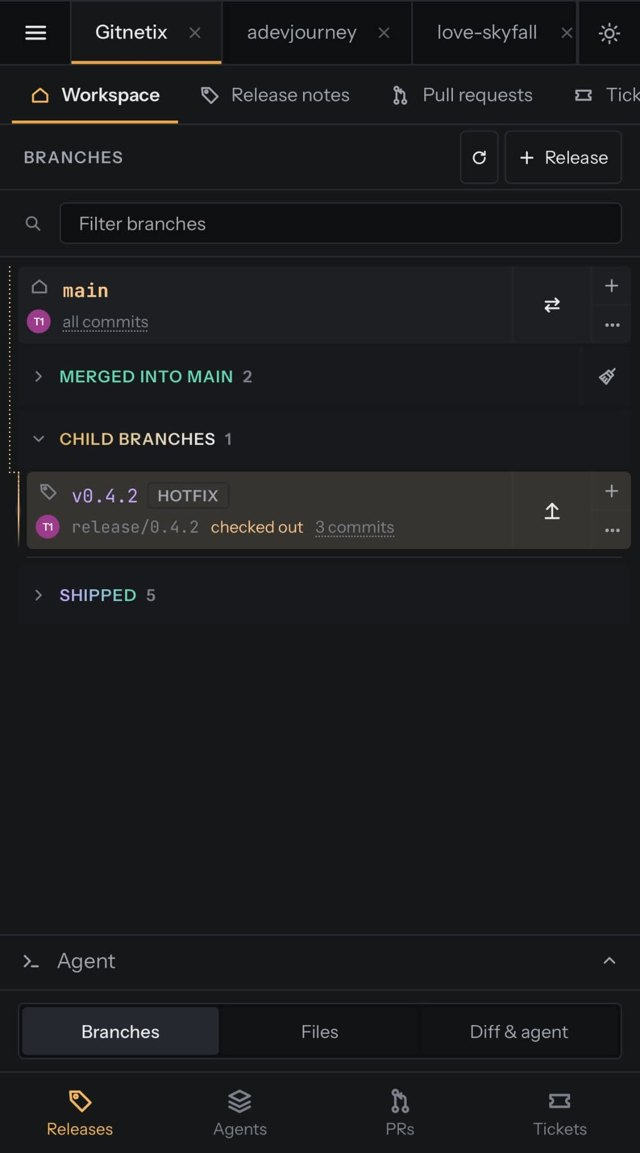
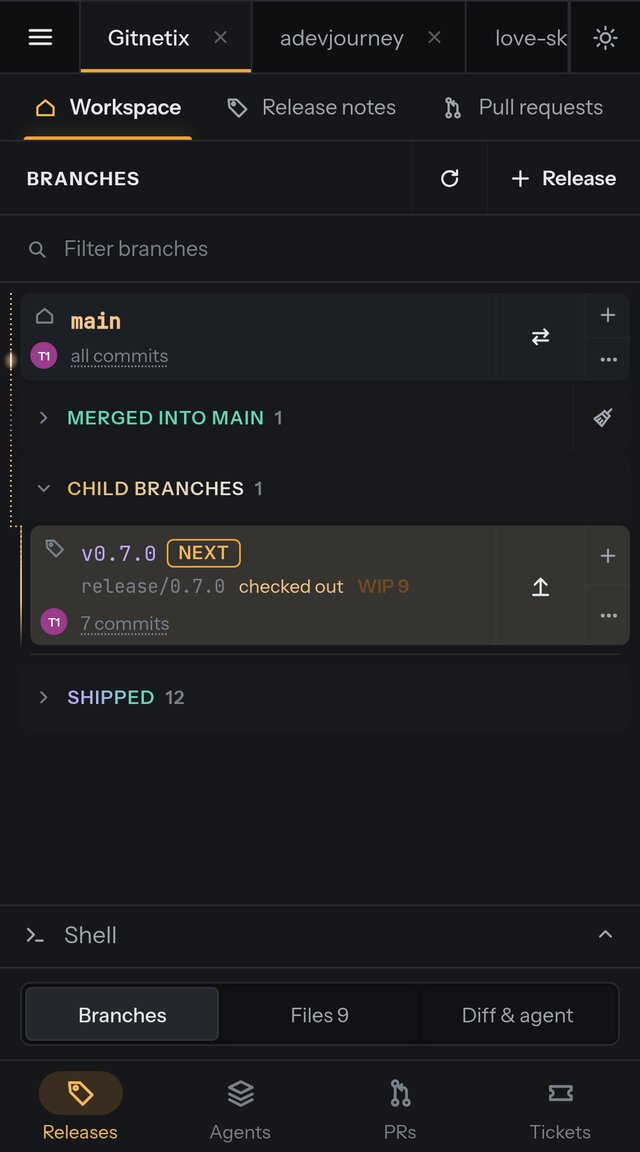
feat(website): restyle links and add release page navigation
- Move muted and faint link colours into shared CSS classes so global hover still applies.
- Add hover and press motion to buttons and cards, with a hit-area strip that stops flicker.
- Add a "See all release notes" link to the release page.
- Shorten the footer labels and update the phone screenshot and its alt text to v0.7.0.

diff --git a/website/src/components/Home.tsx b/website/src/components/Home.tsx
@@ -12,7 +12,7 @@ export default function Home({ version, demo }: { version: string; demo?: ReactN
     {/* HERO */}
     <section aria-labelledby="hero-h" style={{ position: 'relative', padding: '88px 24px 40px', background: 'radial-gradient(900px 480px at 50% 0%, var(--accent-soft), transparent 70%)' }}>
     <div style={{ maxWidth: '1080px', margin: '0 auto', display: 'flex', flexDirection: 'column', alignItems: 'center', textAlign: 'center', gap: '24px' }}>
-    <a href={u(`releases/${releases[0].version}/`)} style={{ display: 'inline-flex', alignItems: 'center', gap: '10px', fontSize: '14px', padding: '6px 14px 6px 6px', border: '1px solid var(--line)', borderRadius: '999px', background: 'var(--panel)', color: 'var(--muted)' }}>
+    <a className="btn-s muted" href={u(`releases/${releases[0].version}/`)} style={{ display: 'inline-flex', alignItems: 'center', gap: '10px', fontSize: '14px', padding: '6px 14px 6px 6px', border: '1px solid var(--line)', borderRadius: '999px', background: 'var(--panel)' }}>
     <span style={{ background: 'var(--accent-soft)', color: 'var(--accent-fg)', fontWeight: '600', padding: '2px 10px', borderRadius: '999px' }} className="mono">v{releases[0].version}</span>
     <span>{releases[0].title}</span>
     <span aria-hidden="true">→</span>
@@ -26,7 +26,7 @@ export default function Home({ version, demo }: { version: string; demo?: ReactN
     </a>
     <a className="btn-s" href={REPO} style={{ display: 'flex', alignItems: 'center', gap: '10px', fontWeight: '500', fontSize: '17px', padding: '15px 22px', borderRadius: '12px', border: '1px solid var(--line)', background: 'var(--panel)' }}>View on GitHub</a>
     </div>
-    <p style={{ margin: '0', fontSize: '14px', color: 'var(--faint)' }}><span data-dl-note>v{version} · Free for macOS, Windows and Linux</span> · <a href={u("download/")} style={{ color: 'var(--muted)', textDecoration: 'underline', textUnderlineOffset: '3px' }}>Other platforms</a></p>
+    <p style={{ margin: '0', fontSize: '14px', color: 'var(--faint)' }}><span data-dl-note>v{version} · Free for macOS, Windows and Linux</span> · <a className="muted" href={u("download/")} style={{ textDecoration: 'underline', textUnderlineOffset: '3px' }}>Other platforms</a></p>
     </div>
 
     {/* hero app window */}
@@ -224,7 +224,7 @@ export default function Home({ version, demo }: { version: string; demo?: ReactN
     <div style={{ flex: '1 1 260px', display: 'flex', justifyContent: 'center' }}>
     <figure style={{ margin: '0', display: 'flex', flexDirection: 'column', gap: '14px', alignItems: 'center' }}>
     <div style={{ position: 'relative', width: '264px', maxWidth: '100%', background: '#0b0c0e', border: '2px solid var(--rail)', borderRadius: '18px', padding: '10px', boxSizing: 'border-box', boxShadow: '0 30px 80px -30px rgba(0,0,0,.8), 0 0 50px -20px rgba(240,164,58,.45)' }}>
-    <img src={u("phone.jpg")} alt="Gitnetix on a phone browser: the branch tree with main, a merged-into-main group, the checked-out v0.4.2 hotfix release, a Shipped group, and Releases, Agents, PRs and Tickets tabs" width="640" height="1153" loading="lazy" style={{ display: 'block', width: '100%', height: 'auto', borderRadius: '9px' }} />
+    <img src={u("phone.jpg")} alt="Gitnetix on a phone browser: the branch tree with main, a merged-into-main group, the checked-out v0.7.0 next release, a Shipped group, and Releases, Agents, PRs and Tickets tabs" width="640" height="1152" loading="lazy" style={{ display: 'block', width: '100%', height: 'auto', borderRadius: '9px' }} />
     </div>
     <span style={{ display: 'inline-flex', alignItems: 'center', gap: '8px', fontSize: '13px', color: 'var(--add)', background: 'var(--panel)', border: '1px solid var(--line)', padding: '4px 12px', borderRadius: '999px' }}><span aria-hidden="true" style={{ width: '7px', height: '7px', borderRadius: '50%', background: 'var(--add)' }}></span>Real screenshot · paired by QR code</span>
     </figure>

diff --git a/website/src/components/Download.tsx b/website/src/components/Download.tsx
@@ -17,7 +17,7 @@ export default function Download({ latest, notes }: Props) {
     <p style={{ margin: '0', color: 'var(--muted)', fontSize: '18px', display: 'flex', flexWrap: 'wrap', gap: '6px 14px', justifyContent: 'center', alignItems: 'center' }}>
     <span className="mono" style={{ color: 'var(--release)', background: 'var(--chip)', padding: '2px 10px', borderRadius: '999px', fontSize: '14px' }}>v{latest.version}</span>
     {notes && <span>Released <time dateTime={notes.date}>{longDate(notes.date)}</time></span>}
-    {notes && <a href={u(`releases/${notes.version}/`)} style={{ color: 'var(--accent-fg)', fontWeight: '600' }}>What's new →</a>}
+    {notes && <a className="dl-new" href={u(`releases/${notes.version}/`)} style={{ fontWeight: '600' }}>What's new →</a>}
     </p>
     </section>
 
@@ -37,7 +37,7 @@ export default function Download({ latest, notes }: Props) {
     </li>
     ))}
     </ul>
-    <p style={{ margin: '20px 0 0', textAlign: 'center', fontSize: '14px', color: 'var(--faint)' }}>Installed apps check for new releases on launch and update themselves. <a href={`${REPO}/releases`} style={{ color: 'var(--muted)', textDecoration: 'underline', textUnderlineOffset: '3px' }}>All releases on GitHub</a></p>
+    <p style={{ margin: '20px 0 0', textAlign: 'center', fontSize: '14px', color: 'var(--faint)' }}>Installed apps check for new releases on launch and update themselves. <a className="dl-all" href={`${REPO}/releases`} style={{ textDecoration: 'underline', textUnderlineOffset: '3px' }}>All releases on GitHub</a></p>
 
     <section aria-labelledby="mac-h" style={{ marginTop: '72px', display: 'flex', flexWrap: 'wrap', gap: '28px 56px', background: 'var(--panel)', border: '1px solid var(--line)', borderRadius: '18px', padding: 'clamp(24px, 4vw, 44px)' }}>
     <div style={{ flex: '1 1 360px', display: 'flex', flexDirection: 'column', gap: '12px' }}>
@@ -63,7 +63,7 @@ export default function Download({ latest, notes }: Props) {
     <h2 id="more-h" style={{ margin: '0 0 24px', fontSize: '32px', letterSpacing: '-0.02em' }}>Other ways to run it</h2>
     <div style={{ display: 'grid', gridTemplateColumns: 'repeat(auto-fit, minmax(min(340px, 100%), 1fr))', gap: '18px' }}>
     <article style={{ background: 'var(--panel)', border: '1px solid rgba(240,164,58,.45)', borderRadius: '16px', padding: '26px', display: 'flex', gap: '20px', alignItems: 'flex-start' }}>
-    <img src={u("phone.jpg")} alt="Gitnetix branch tree in a phone browser" width="640" height="1153" loading="lazy" style={{ width: '96px', height: 'auto', borderRadius: '14px', border: '2px solid var(--rail)', flex: 'none' }} />
+    <img src={u("phone.jpg")} alt="Gitnetix branch tree in a phone browser" width="640" height="1152" loading="lazy" style={{ width: '96px', height: 'auto', borderRadius: '14px', border: '2px solid var(--rail)', flex: 'none' }} />
     <div style={{ display: 'flex', flexDirection: 'column', gap: '10px' }}>
     <h3 style={{ margin: '0', fontSize: '20px' }}>On your phone</h3>
     <p style={{ margin: '0', color: 'var(--muted)', fontSize: '15px' }}>Nothing to install. In Settings › Companion &amp; MCP, allow devices on your network, then scan the QR code. Gitnetix opens in your phone's browser.</p>

diff --git a/website/src/components/ReleasePage.tsx b/website/src/components/ReleasePage.tsx
@@ -8,16 +8,17 @@ export default function ReleasePage({ i }: { i: number }) {
   const older = releases[i + 1];
   return (
     <div style={{ maxWidth: '1040px', margin: '0 auto', padding: '0 24px 120px' }}>
-    <nav aria-label="Breadcrumb" style={{ padding: '28px 0 40px', fontSize: '14px', color: 'var(--faint)' }}><a href={u()} style={{ color: 'var(--faint)' }}>Gitnetix</a> <span aria-hidden="true">/</span> <a href={u('releases/')} style={{ color: 'var(--faint)' }}>Releases</a> <span aria-hidden="true">/</span> <span>v{r.version}</span></nav>
+    <nav aria-label="Breadcrumb" style={{ padding: '28px 0 40px', fontSize: '14px', color: 'var(--faint)' }}><a className="faint" href={u()}>Gitnetix</a> <span aria-hidden="true">/</span> <a className="faint" href={u('releases/')}>Releases</a> <span aria-hidden="true">/</span> <span>v{r.version}</span></nav>
     <p style={{ margin: '0 0 16px', display: 'flex', flexWrap: 'wrap', gap: '6px 14px', alignItems: 'center', color: 'var(--muted)' }}>
     <span className="mono" style={{ color: 'var(--release)', background: 'var(--chip)', padding: '2px 10px', borderRadius: '999px', fontSize: '14px' }}>v{r.version}</span>
     <span>Released <time dateTime={r.date}>{longDate(r.date)}</time></span>
     {i === 0 && <span style={{ fontSize: '12px', fontWeight: '600', color: 'var(--accent-ink)', background: 'var(--accent)', padding: '2px 10px', borderRadius: '999px' }}>Latest</span>}
     </p>
     <ReleaseCard r={r} latest={i === 0} heading="h1" />
+    <a className="btn-s" href={u('releases/')} style={{ display: 'inline-flex', alignItems: 'center', marginTop: '28px', fontWeight: '500', padding: '13px 20px', borderRadius: '12px', border: '1px solid var(--line)', background: 'var(--panel)' }}>See all release notes</a>
     <nav aria-label="Other releases" style={{ marginTop: '32px', display: 'flex', flexWrap: 'wrap', gap: '16px', justifyContent: 'space-between' }}>
-    {older ? <a href={u(`releases/${older.version}/`)} style={{ color: 'var(--muted)', minHeight: '44px', display: 'flex', alignItems: 'center' }}>← v{older.version}: {older.title}</a> : <span></span>}
-    {newer && <a href={u(`releases/${newer.version}/`)} style={{ color: 'var(--muted)', minHeight: '44px', display: 'flex', alignItems: 'center' }}>v{newer.version}: {newer.title} →</a>}
+    {older ? <a className="muted" href={u(`releases/${older.version}/`)} style={{ minHeight: '44px', display: 'flex', alignItems: 'center' }}>← v{older.version}: {older.title}</a> : <span></span>}
+    {newer && <a className="muted" href={u(`releases/${newer.version}/`)} style={{ minHeight: '44px', display: 'flex', alignItems: 'center' }}>v{newer.version}: {newer.title} →</a>}
     </nav>
     </div>
   );

diff --git a/website/src/components/Releases.tsx b/website/src/components/Releases.tsx
@@ -7,7 +7,7 @@ export default function Releases({ version }: { version: string }) {
   const days = Math.round((Date.parse(releases[0].date) - Date.parse(releases[releases.length - 1].date)) / 864e5) + 1;
   return (
     <div style={{ maxWidth: '1240px', margin: '0 auto', padding: '0 24px 120px' }}>
-    <nav aria-label="Breadcrumb" style={{ paddingTop: '28px', fontSize: '14px', color: 'var(--faint)' }}><a href={u()} style={{ color: 'var(--faint)' }}>Gitnetix</a> <span aria-hidden="true">/</span> <span>Releases</span></nav>
+    <nav aria-label="Breadcrumb" style={{ paddingTop: '28px', fontSize: '14px', color: 'var(--faint)' }}><a className="faint" href={u()}>Gitnetix</a> <span aria-hidden="true">/</span> <span>Releases</span></nav>
 
     <section aria-labelledby="rel-h" style={{ padding: '56px 0 64px', display: 'flex', flexWrap: 'wrap', gap: '32px 64px', alignItems: 'flex-end', justifyContent: 'space-between' }}>
     <div style={{ flex: '1 1 560px', maxWidth: '760px' }}>
@@ -22,8 +22,8 @@ export default function Releases({ version }: { version: string }) {
     <div style={{ background: 'var(--panel)', border: '1px solid var(--line)', borderRadius: '12px', padding: '14px' }}><dt style={{ fontSize: '12px', color: 'var(--faint)' }}>Latest</dt><dd className="mono" style={{ margin: '6px 0 0', fontSize: '18px', fontWeight: '500', color: 'var(--accent-fg)' }}>{latest.version}</dd></div>
     </dl>
     <div style={{ display: 'flex', flexWrap: 'wrap', gap: '8px 18px', fontSize: '14px' }}>
-    <a href={u('releases.xml')} style={{ color: 'var(--muted)', display: 'flex', alignItems: 'center', gap: '6px', minHeight: '32px' }}><svg aria-hidden="true" width="14" height="14" viewBox="0 0 24 24" fill="none" stroke="currentColor" strokeWidth="2.2" strokeLinecap="round"><path d="M4 11a9 9 0 0 1 9 9M4 4a16 16 0 0 1 16 16"></path><circle cx="5" cy="19" r="1.5"></circle></svg>Release feed</a>
-    <a href={`${REPO}/blob/main/CHANGELOG.md`} style={{ color: 'var(--muted)', display: 'flex', alignItems: 'center', minHeight: '32px' }}>CHANGELOG.md on GitHub</a>
+    <a className="muted" href={u('releases.xml')} style={{ display: 'flex', alignItems: 'center', gap: '6px', minHeight: '32px' }}><svg aria-hidden="true" width="14" height="14" viewBox="0 0 24 24" fill="none" stroke="currentColor" strokeWidth="2.2" strokeLinecap="round"><path d="M4 11a9 9 0 0 1 9 9M4 4a16 16 0 0 1 16 16"></path><circle cx="5" cy="19" r="1.5"></circle></svg>Release feed</a>
+    <a className="muted" href={`${REPO}/blob/main/CHANGELOG.md`} style={{ display: 'flex', alignItems: 'center', minHeight: '32px' }}>CHANGELOG.md on GitHub</a>
     </div>
     </div>
     </section>

diff --git a/website/src/components/Footer.tsx b/website/src/components/Footer.tsx
@@ -4,14 +4,14 @@ export default function Footer() {
   return (
     <footer style={{ borderTop: '1px solid var(--line)' }}>
     <div style={{ maxWidth: '1240px', margin: '0 auto', padding: '36px 24px', display: 'flex', flexWrap: 'wrap', gap: '20px 40px', alignItems: 'center', fontSize: '14px', color: 'var(--muted)' }}>
-    <div style={{ display: 'flex', alignItems: 'center', gap: '10px', flex: '1 1 260px' }}><img src={u('favicon.png')} alt="" width="24" height="24" loading="lazy" style={{ width: '24px', height: '24px', borderRadius: '6px' }} /><span>Gitnetix · a release-centric Git client</span></div>
-    <nav aria-label="Footer" style={{ display: 'flex', flexWrap: 'wrap', gap: '8px 24px' }}>
-    <a href={REPO} style={{ color: 'var(--muted)' }}>GitHub</a>
-    <a href={u('releases/')} style={{ color: 'var(--muted)' }}>Changelog</a>
-    <a href={u('#faq')} style={{ color: 'var(--muted)' }}>FAQ</a>
-    <a href={u('download/')} style={{ color: 'var(--muted)' }}>Download</a>
-    <a href={u('releases.xml')} style={{ color: 'var(--muted)' }}>RSS</a>
-    <a href="https://adevjourney.wtf/en/" style={{ color: 'var(--muted)' }}>Made by Guillaume Huard Hughes · A Dev Journey</a>
+    <div style={{ display: 'flex', alignItems: 'center', gap: '10px', flex: '1 1 260px' }}><img src={u('favicon.png')} alt="" width="24" height="24" loading="lazy" style={{ width: '24px', height: '24px', borderRadius: '6px' }} /><span>Gitnetix</span></div>
+    <nav aria-label="Footer" className="muted-links" style={{ display: 'flex', flexWrap: 'wrap', gap: '8px 24px' }}>
+    <a href={REPO}>GitHub</a>
+    <a href={u('releases/')}>Changelog</a>
+    <a href={u('#faq')}>FAQ</a>
+    <a href={u('download/')}>Download</a>
+    <a href={u('releases.xml')}>RSS</a>
+    <a href="https://adevjourney.wtf/en/">Made by Guillaume Huard Hughes</a>
     </nav>
     </div>
     </footer>

diff --git a/website/src/styles/site.css b/website/src/styles/site.css
@@ -5,6 +5,9 @@ html{scroll-behavior:smooth}
 body{margin:0;background:var(--bg);color:var(--fg);font-family:'Instrument Sans','Helvetica Neue',Arial,sans-serif;font-size:17px;line-height:1.55;overflow-x:hidden}
 a{color:var(--fg);text-decoration:none}
 a:hover{color:var(--accent-fg)}
+/* :where() keeps this below a:hover, so muted links still light up. */
+:where(.muted-links a,a.muted){color:var(--muted)}
+:where(a.faint){color:var(--faint)}
 a.btn-p:hover{color:var(--accent-ink);filter:brightness(1.06)}
 a:focus-visible,button:focus-visible,summary:focus-visible{outline:2px solid var(--accent);outline-offset:3px;border-radius:6px}
 code,.mono{font-family:'JetBrains Mono',Menlo,Consolas,monospace}
@@ -26,6 +29,9 @@ a.btn-s{transition:border-color .18s var(--ease),background-color .18s var(--eas
 a.btn-s:hover{color:var(--fg);border-color:color-mix(in srgb,var(--line),var(--fg) 22%)!important;background:var(--raised)!important}
 a.card-link{transition:border-color .2s var(--ease),transform .2s var(--ease),box-shadow .25s var(--ease)}
 a.card-link:hover{color:var(--fg);border-color:rgba(240,164,58,.5)!important;transform:translateY(-2px);box-shadow:0 18px 40px -22px rgba(240,164,58,.45)}
+/* Lift and press move the box; this strip past both edges keeps the pointer on it, so the hit zone stays put (no hover flicker, no lost clicks). */
+a:is(.btn-p,.btn-s,.card-link,.pbtn){position:relative}
+a:is(.btn-p,.btn-s,.card-link,.pbtn):is(:hover,:active)::before{content:"";position:absolute;inset:-3px 0}
 details summary:hover h3{color:var(--accent-fg)}
 details summary h3{transition:color .15s var(--ease)}
 .chev{transition:transform .2s var(--ease)}

diff --git a/website/src/components/Header.tsx b/website/src/components/Header.tsx
@@ -18,10 +18,10 @@ export default function Header({ page }: { page?: Page }) {
     <img src={u('favicon.png')} alt="" width="32" height="32" style={{ width: '32px', height: '32px', borderRadius: '8px' }} />
     <span>Gitnetix</span>
     </a>
-    <div style={{ display: 'flex', flexWrap: 'wrap', gap: '4px 22px', fontSize: '15px', flex: '1 1 auto' }}>
+    <div className="muted-links" style={{ display: 'flex', flexWrap: 'wrap', gap: '4px 22px', fontSize: '15px', flex: '1 1 auto' }}>
     {nav.map(([label, href]) => {
       const on = label === 'Releases' && page === 'releases';
-      return <a key={label} href={href} aria-current={on ? 'page' : undefined} style={on ? { color: 'var(--fg)', fontWeight: 600 } : { color: 'var(--muted)' }}>{label}</a>;
+      return <a key={label} href={href} aria-current={on ? 'page' : undefined} style={on ? { color: 'var(--fg)', fontWeight: 600 } : undefined}>{label}</a>;
     })}
     </div>
     <div style={{ display: 'flex', gap: '10px', alignItems: 'center' }}>

diff --git a/website/src/components/ReleaseCard.tsx b/website/src/components/ReleaseCard.tsx
@@ -47,7 +47,7 @@ export default function ReleaseCard({ r, latest, heading: H }: Props) {
       </div>
       <div style={{ display: 'flex', flexWrap: 'wrap', gap: '8px 20px', fontSize: '14px' }}>
         <a href={`${REPO}/releases/tag/v${r.version}`} style={{ color: 'var(--accent-fg)', fontWeight: 600, display: 'flex', alignItems: 'center', minHeight: '32px' }}>Download v{r.version} →</a>
-        {H === 'h2' && <a href={page} style={{ color: 'var(--faint)', display: 'flex', alignItems: 'center', minHeight: '32px' }}>Release page</a>}
+        {H === 'h2' && <a className="faint" href={page} style={{ display: 'flex', alignItems: 'center', minHeight: '32px' }}>Release page</a>}
       </div>
     </article>
   );
